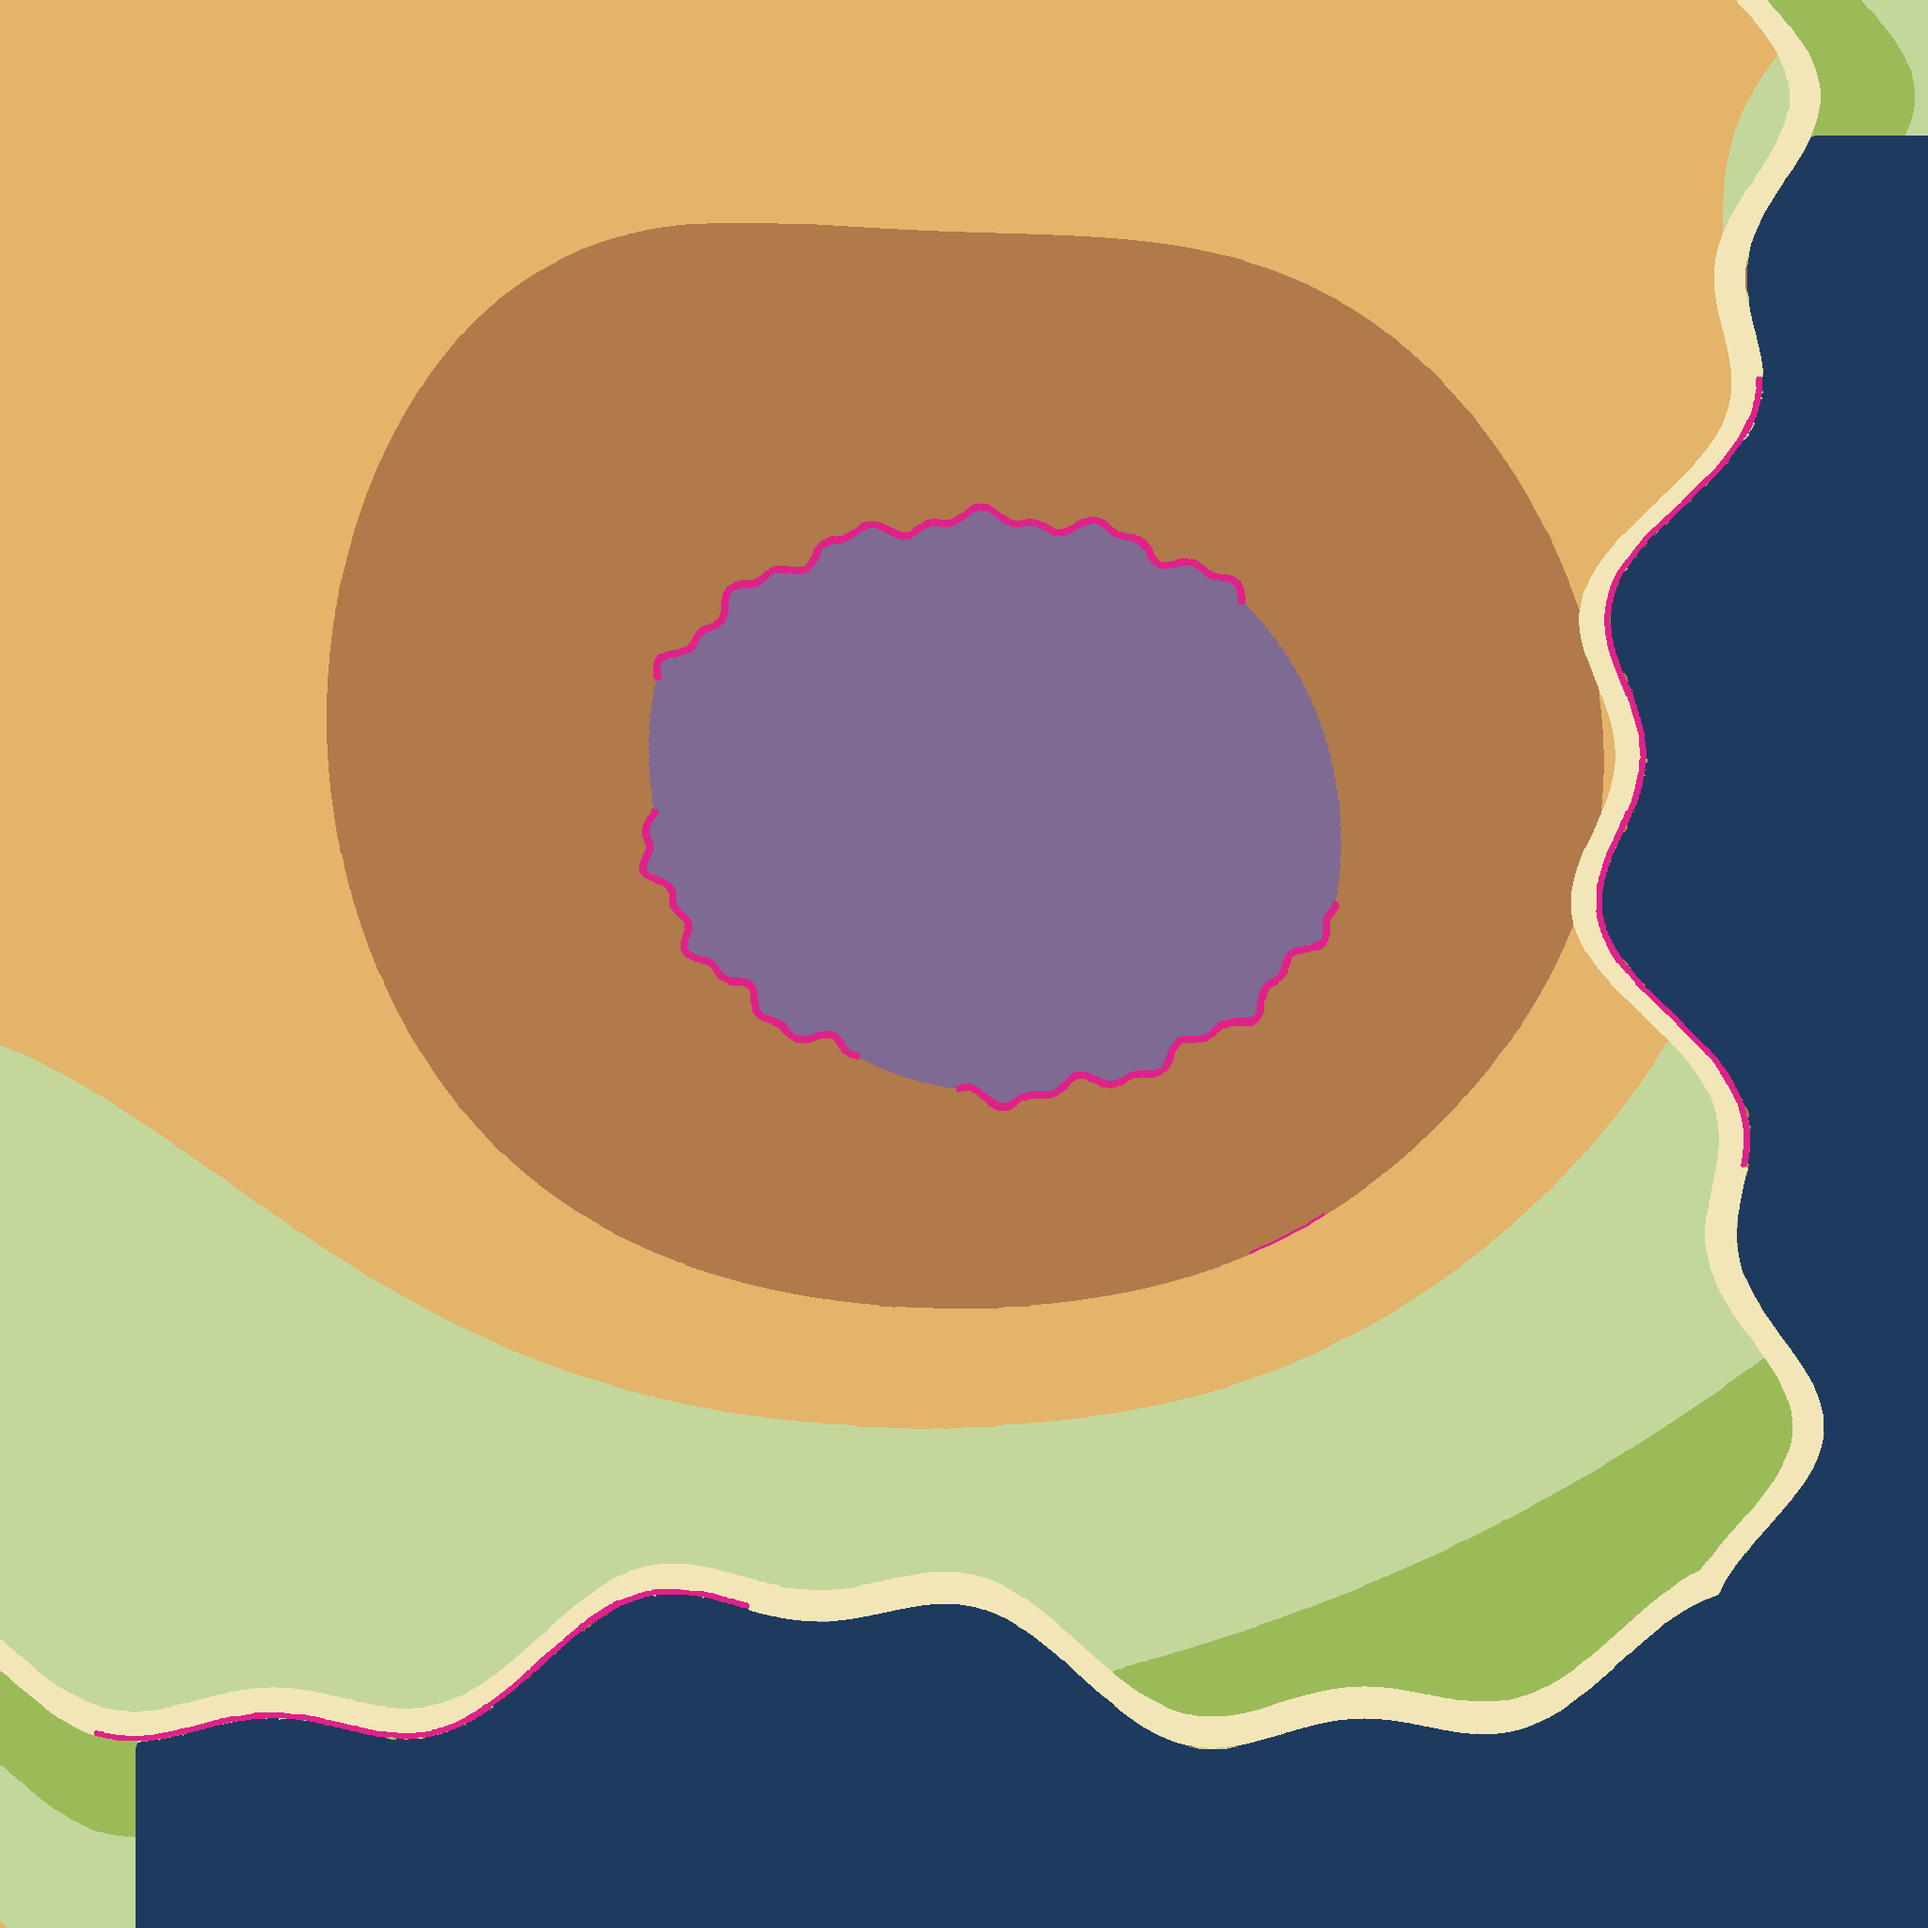
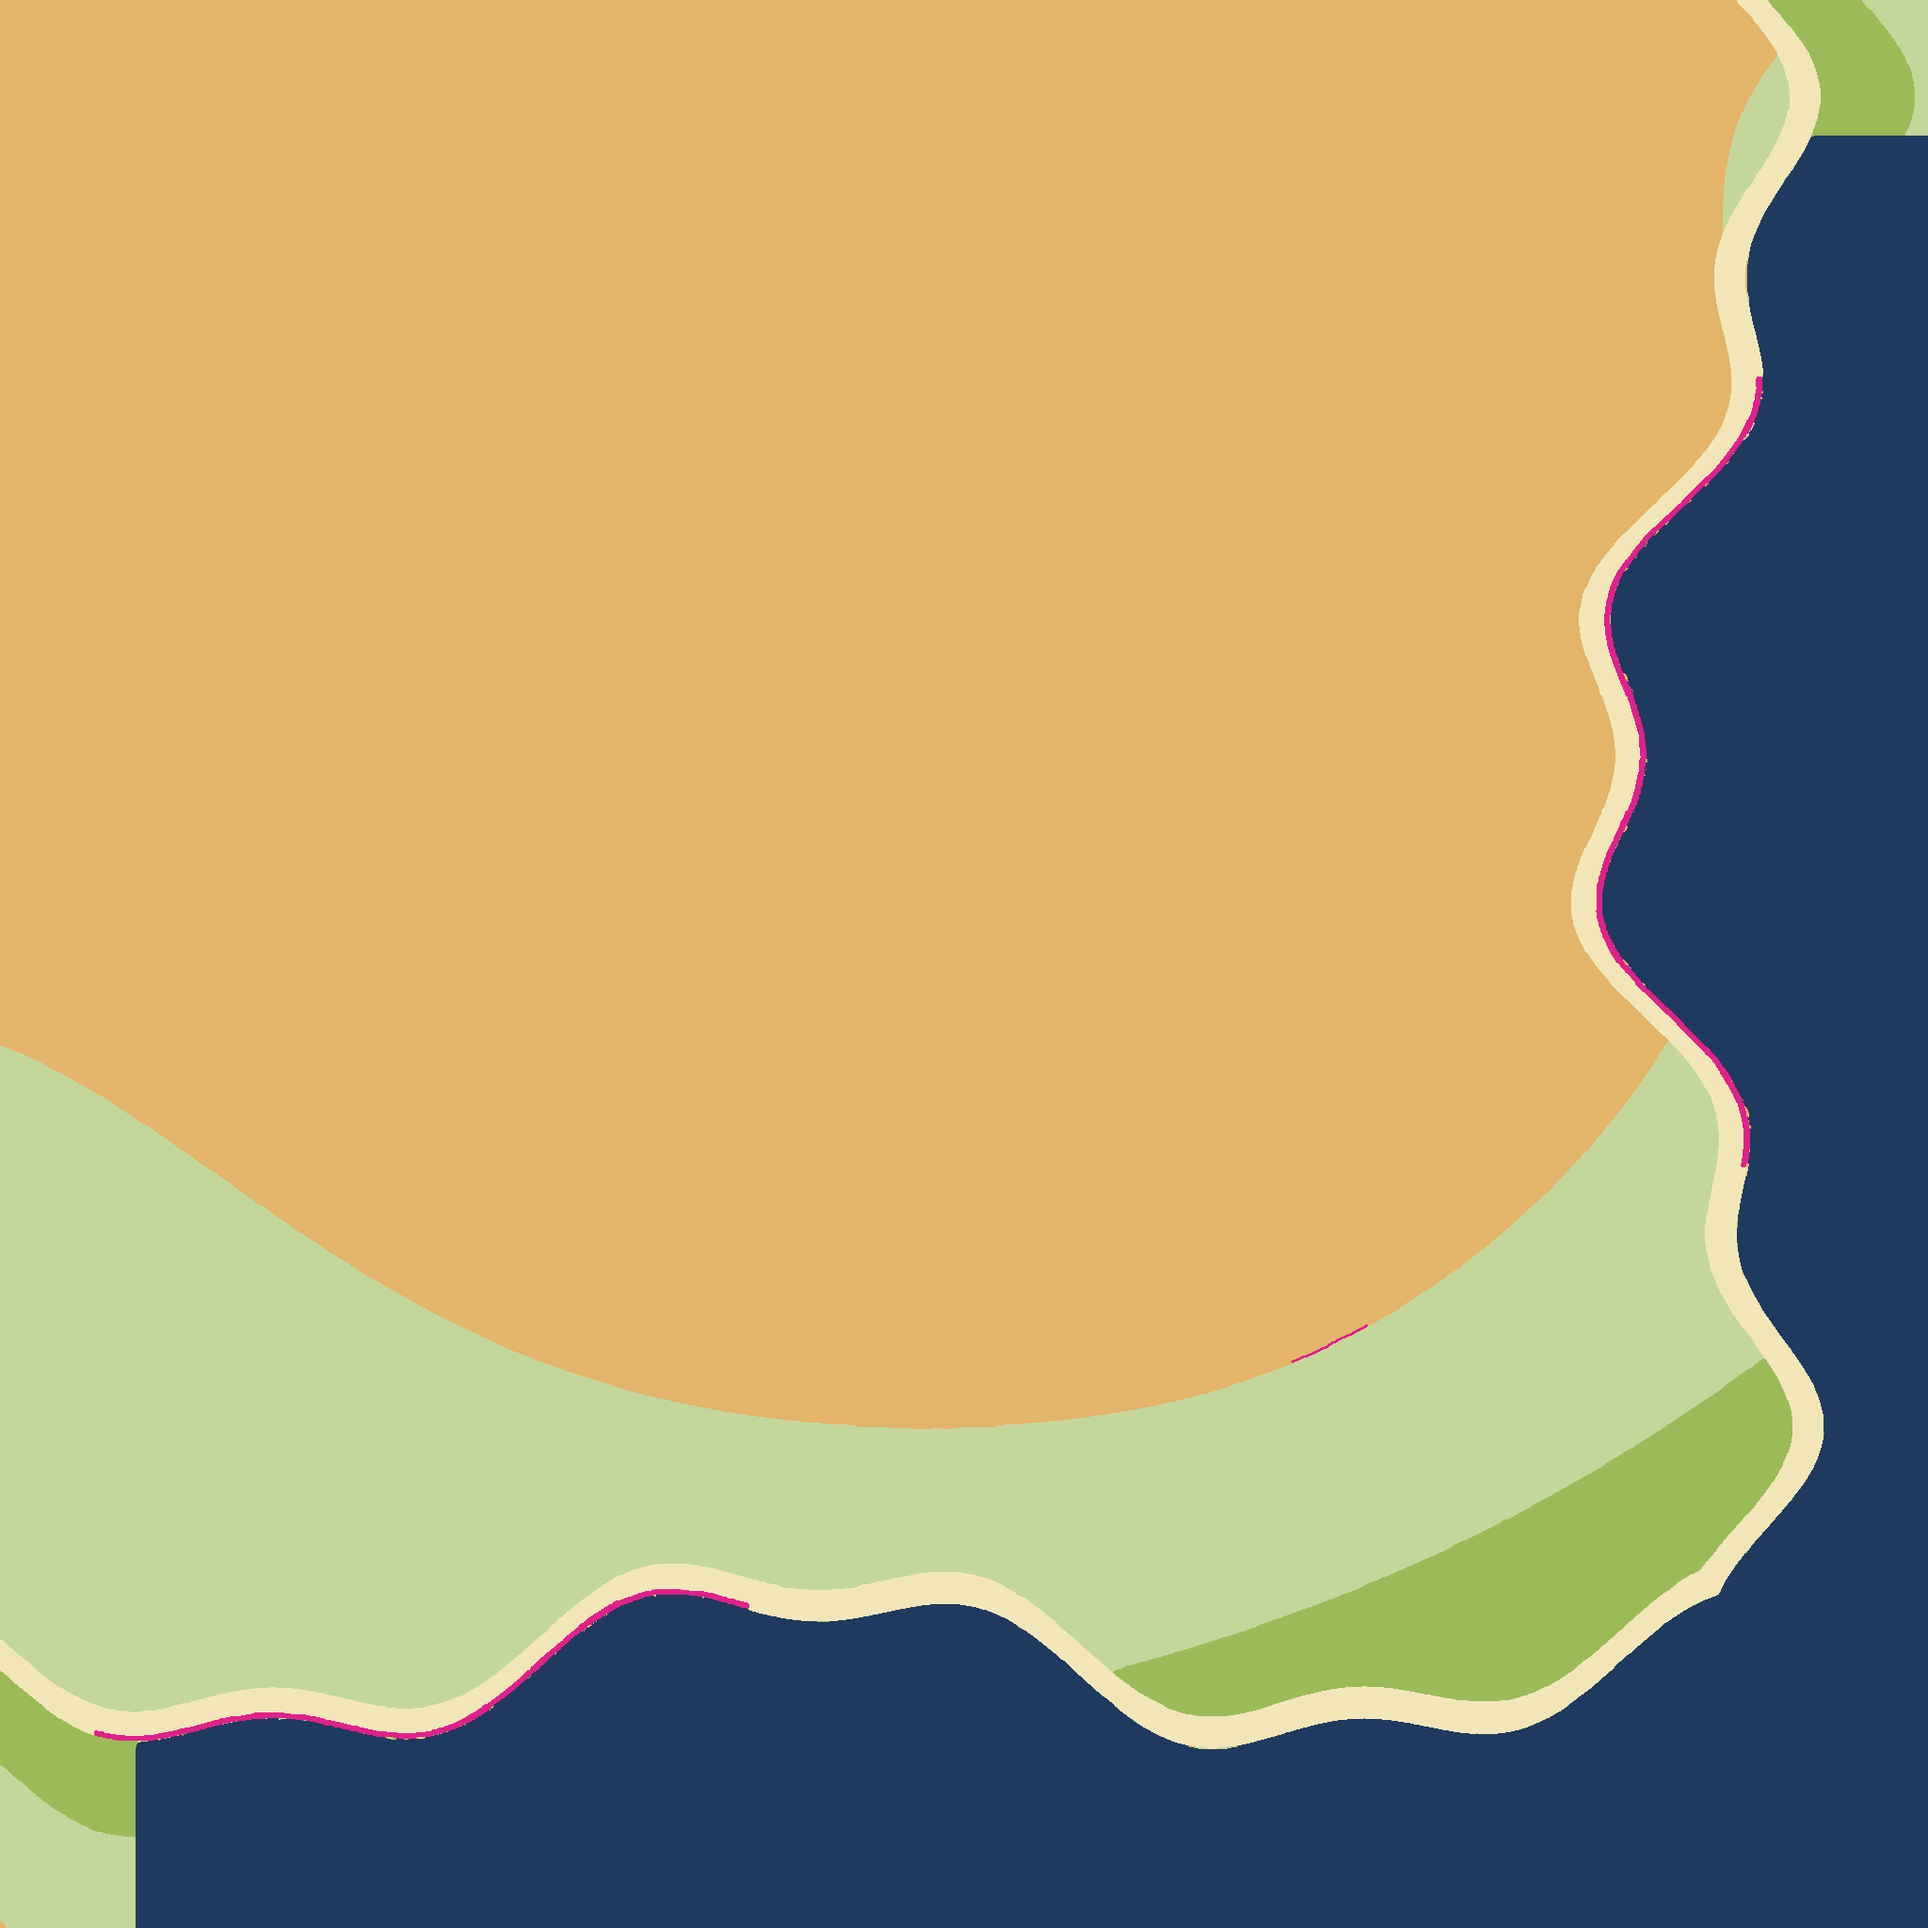
wip(map): A3 보정 도구(산 띠 낮춤·고리 제거·봉우리 표식·식생 2구역)·하늘 행성·위성·해자 반경 읽기 (봉우리 굽기 병합 전)
Claude-Session: https://claude.ai/code/session_01PShdycDoYj1ffFPsLxdXpC

diff --git a/tools/fix_gpt_map.py b/tools/fix_gpt_map.py
@@ -2,12 +2,12 @@
 """GPT 지도(maps/first_island/source_gpt/*.png, 2000²) → 설계서 11장(A2) 보정 → maps/first_island/*.png (2048², 1px = 1m).
 
 보정 (사용자 프롬프트 기준):
-- 높이: GPT '고산'(보라) 고원을 안쪽 절벽 고리(저수호에서 약 340m) 안 = 고산 160m, 밖 = 산 90m 어깨로 나눔
-  → 아래는 완만, 위는 절벽 고리, 고리 틈(남·서) = 오르는 길.
+- 높이(A3): GPT '산'·'고산' 띠(평평한 탁자)를 고원(45m)으로 낮추고 안쪽 절벽 고리 선을 지움 → 산 모양은 굽기의
+  봉우리 도장(정상 350m, 절벽대 + 오르는 틈 3곳)이 만든다. 봉우리 표식 = 저수호 자리.
 - 표식: 수문 3곳(해안 마을 북쪽 · 북동쪽 산 아래 · 동남쪽 산 중턱), 해안 마을을 스폰 서쪽 해안으로, 산마을(새 색),
   전망대를 남서 절벽 해안 위로, 다리 = 길이 개천을 건너는 곳.
 - 개천(새 길 종류): 수문 A → 해안 마을 → 바다 / 수문 C → 폭포 → A 개천 상류 합류 / 수문 B → 동쪽 바다.
-- 구역: GPT가 강을 습지 띠로 칠한 것 제거, 해안 구역 = 해변 띠 근처, 개천·저수호 둘레 = 습지.
+- 구역(A3): 첫 지역은 초원·활엽수림만 (침엽수 → 활엽수, 고지·습지·해안·황무지 → 초원).
 사용: python3 tools/fix_gpt_map.py   (결정적)
 """
 import json, math, os
@@ -25,12 +25,13 @@ Z = {k: hx(v) for k, v in {"meadow": "A9D18E", "broadleaf": "548235", "conifer":
      "highland": "A6A6A6", "coast": "FFE699", "wasteland": "C55A11"}.items()}
 P = {"dirt": hx("8B5A2B"), "paved": hx("404040"), "aqueduct": hx("2E75B6"), "stream": hx("6FA8DC")}
 M = {"start": hx("000000"), "tower": hx("FF0000"), "lake": hx("00B0F0"), "sluice": hx("FF8C00"), "village": hx("FFFF00"),
-     "hill_village": hx("FFC000"), "ruin": hx("7030A0"), "lookout": hx("FF66CC"), "bridge": hx("00FF00")}
+     "hill_village": hx("FFC000"), "ruin": hx("7030A0"), "lookout": hx("FF66CC"), "bridge": hx("00FF00"),
+     "peak": hx("800000")}
 WHITE = (255, 255, 255)
 
 LAKE = (26.0, -173.0)
 MARKERS = [
-    ("start", 700, 690), ("lake", 26, -173), ("tower", 38, -173),
+    ("start", 700, 690), ("lake", 26, -173), ("tower", 38, -173), ("peak", 26, -190),
     ("village", 430, 735),            # 해안 마을: 스폰 서쪽 해안
     ("hill_village", -60, 215),       # 산마을: 남쪽 어깨(고리 틈 아래), 동남 폭포가 보이는 쪽
     ("sluice", 430, 520),             # A: 해안 마을 북쪽
@@ -52,7 +53,7 @@ DIRT = [
     [(300, 115), (200, 160), (80, 200), (-60, 215)],                                  # 산마을 ↔ 수문 C
     [(-300, 640), (-200, 520), (-60, 215)],                                           # 전망대 ↔ 산마을
 ]
-WATERFALL = (343, 285, 45)   # 개천 C가 산(90m)→고원(45m) 경계를 지나는 곳: 반경 45m 안의 띠 경계를 절벽으로 = 폭포 자리
+WATERFALL = (388, 402, 45)   # 개천 C가 고원(45m)→언덕(20m) 경계를 지나는 곳: 반경 45m 안의 띠 경계를 절벽으로 = 폭포 자리
 
 
 def w2p(x, z): return (round((x + WORLD / 2) * (N - 1) / WORLD), round((z + WORLD / 2) * (N - 1) / WORLD))
@@ -95,35 +96,20 @@ def clean_height(im):
 def fix_height():
     im = clean_height(load("height")); px = im.load()
     lx, lz = w2p(*LAKE)
-    # 안쪽 절벽 고리 반경 R(각도): 저수호에서 250~450m 거리의 절벽 픽셀, 2° 칸 중앙값, 빈 칸(틈)은 보간
-    bins = [[] for _ in range(180)]
-    for y in range(0, N, 2):
-        for x in range(0, N, 2):
-            if near(px[x, y], {"cliff": H["cliff"]}):
-                d = math.hypot(x - lx, y - lz) * WORLD / N
-                if 250 <= d <= 450:
-                    bins[int((math.degrees(math.atan2(y - lz, x - lx)) + 180) // 2) % 180].append(d)
-    r = [sorted(b)[len(b) // 2] if b else None for b in bins]
-    known = [i for i, v in enumerate(r) if v is not None]
-    for i in range(180):
-        if r[i] is None:
-            a = max([k for k in known if k < i] or [known[-1] - 180])
-            b = min([k for k in known if k > i] or [known[0] + 180])
-            ra, rb = r[a % 180], r[b % 180]
-            r[i] = ra + (rb - ra) * (i - a) / (b - a)
     for y in range(N):
         for x in range(N):
-            if near(px[x, y], {"high": H["high"]}):
-                d = math.hypot(x - lx, y - lz) * WORLD / N
-                i = int((math.degrees(math.atan2(y - lz, x - lx)) + 180) // 2) % 180
-                px[x, y] = H["high"] if d < r[i] else H["mtn"]
+            k = near(px[x, y], H)
+            if k in ("mtn", "high"):
+                px[x, y] = H["plat"]
+            elif k == "cliff" and math.hypot(x - lx, y - lz) * WORLD / N < 450:
+                px[x, y] = H["plat"]   # 정상 절벽 고리는 봉우리 도장이 만든다
     wx, wz, wr = WATERFALL
     cx, cy = w2p(wx, wz); rp = int(wr * N / WORLD)
     marks = []
     for y in range(cy - rp, cy + rp + 1):
         for x in range(cx - rp, cx + rp + 1):
-            if math.hypot(x - cx, y - cy) <= rp and near(px[x, y], H) == "mtn":
-                if any(near(px[x + dx, y + dy], H) == "plat" for dx in (-2, 0, 2) for dy in (-2, 0, 2)):
+            if math.hypot(x - cx, y - cy) <= rp and near(px[x, y], H) == "plat":
+                if any(near(px[x + dx, y + dy], H) == "hill" for dx in (-2, 0, 2) for dy in (-2, 0, 2)):
                     marks.append((x, y))
     for x, y in marks: px[x, y] = H["cliff"]
     print("waterfall cliff px", len(marks))
@@ -131,35 +117,12 @@ def fix_height():
 
 
 def fix_zones(height):
-    z = load("zones"); zp = z.load(); hp = height.load()
-    src = z.copy(); sp = src.load()
-    from collections import Counter
+    """첫 지역 = 초원·활엽수림만 (설계서 12장 P20)."""
+    z = load("zones"); zp = z.load()
     for y in range(N):
         for x in range(N):
             k = near(zp[x, y], Z)
-            hb = near(hp[x, y], H)
-            if k in ("wetland", "coast"):
-                # GPT가 강·해안을 띠로 칠한 곳 = 주변 구역의 다수결 (8방향 40m 표본)
-                votes = Counter()
-                for dx, dy in ((40, 0), (-40, 0), (0, 40), (0, -40), (28, 28), (-28, 28), (28, -28), (-28, -28)):
-                    q = near(sp[min(max(x + dx, 0), N - 1), min(max(y + dy, 0), N - 1)], Z)
-                    if q not in (None, "wetland", "coast"):
-                        votes[q] += 1
-                zp[x, y] = Z[votes.most_common(1)[0][0] if votes else "meadow"]
-            if hb in ("deep", "shal", "beach"):
-                zp[x, y] = Z["coast"]
-    # 해변 띠에서 25m 안쪽까지 해안 구역 (팽창)
-    coast = Image.new("L", (N, N)); cp = coast.load()
-    for y in range(N):
-        for x in range(N):
-            if near(hp[x, y], H) == "beach": cp[x, y] = 255
-    from PIL import ImageFilter
-    coast = coast.filter(ImageFilter.MaxFilter(51))
-    z.paste(Image.new("RGB", (N, N), Z["coast"]), mask=coast)
-    dr = ImageDraw.Draw(z)
-    for s in STREAMS: dr.line([w2p(*p) for p in s], fill=Z["wetland"], width=16, joint="curve")
-    lx, lz = w2p(*LAKE)
-    dr.ellipse([lx - 92, lz - 92, lx + 92, lz + 92], outline=Z["wetland"], width=32)
+            zp[x, y] = Z["broadleaf"] if k in ("broadleaf", "conifer") else Z["meadow"]
     return z
 
 
@@ -197,7 +160,8 @@ def main():
     for name, im in (("height", h), ("zones", z), ("paths", p), ("markers", m)):
         im.save(os.path.join(ROOT, name + ".png"))
     with open(os.path.join(ROOT, "map.json"), "w") as f:
-        json.dump({"world": 2048, "size": 2048, "min_h": -20, "max_h": 200, "smooth_radius": 40, "edge_sea": False}, f, indent=1)
+        json.dump({"world": 2048, "size": 2048, "min_h": -20, "max_h": 420, "smooth_radius": 40, "edge_sea": False,
+                   "peak_height": 350, "peak_radius": 700, "summit_radius": 180, "lake_radius": 110, "tower_radius": 45}, f, indent=1)
     hp = h.load()
     for kind, x, zz in pts:
         print(f"{kind:13s} ({x:6.0f},{zz:6.0f})  band={near(hp[w2p(x, zz)], H)}")
